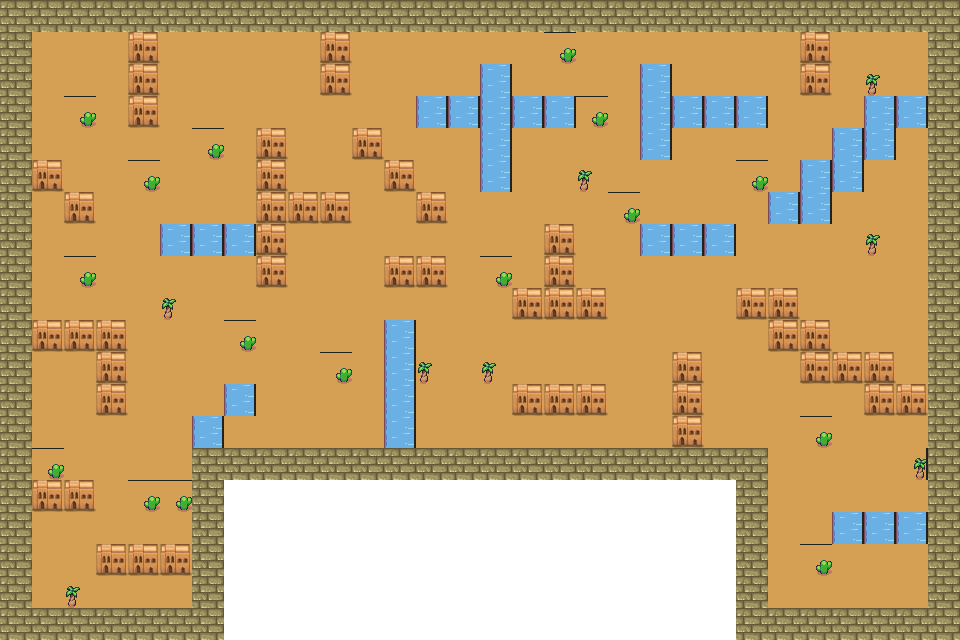
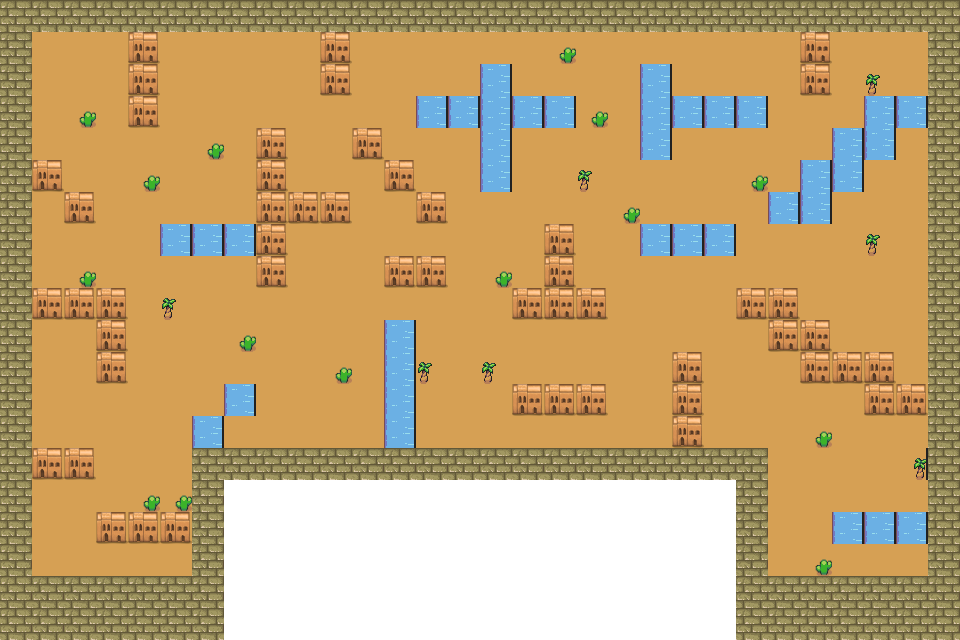
地图修改

diff --git a/src/main/java/com/example/biubiu/sprite/Enemy.java b/src/main/java/com/example/biubiu/sprite/Enemy.java
@@ -41,40 +41,27 @@ public class Enemy extends Role{
 
     private int [][][]block={
             {},
-            //0号地图
             {
-                    {10, 10, 10, 10, 10, 10, 10, 10, 10, 10, 10, 10, 10, 10, 10, 10, 10, 10, 10, 10, 10, 10, 10, 10, 10, 10, 10, 10, 10, 10, 10, 10},
-                    {10, 0, 0, 0, 0, 0, 0, 0, 10, 0, 0, 0, 10, 0, 0, 0, 10, 0, 0, 0, 0, 10, 0, 0, 0, 0, 0, 0, 0, 0, 0, 10},
-                    {10, 0, 0, 0, 0, 0, 0, 0, 10, 0, 0, 0, 10, 0, 0, 0, 10, 0, 0, 0, 0, 10, 0, 0, 10, 10, 10, 10, 0, 0, 0, 10},
-                    {10, 0, 0, 0, 0, 0, 0, 0, 10, 0, 0, 0, 10, 0, 0, 0, 10, 0, 0, 0, 0, 10, 0, 0, 0, 0, 0, 0, 0, 0, 0, 10},
-                    {10, 10, 10, 10, 10, 0, 0, 10, 10, 0, 0, 0, 10, 0, 0, 0, 10, 0, 0, 0, 0, 10, 0, 0, 10, 0, 0, 0, 0, 0, 0, 10},
-                    {10, 0, 0, 0, 0, 0, 0, 0, 0, 0, 0, 0, 0, 0, 0, 0, 0, 0, 0, 0, 0, 10, 0, 0, 10, 0, 0, 0, 0, 10, 0, 10},
-                    {10, 0, 0, 0, 0, 0, 0, 0, 0, 0, 0, 0, 0, 0, 0, 0, 0, 0, 0, 0, 0, 10, 0, 0, 10, 0, 0, 0, 0, 10, 0, 10},
-                    {10, 0, 0, 0, 0, 0, 0, 0, 0, 0, 0, 0, 0, 0, 10, 10, 10, 10, 10, 0, 0, 0, 0, 0, 0, 0, 0, 0, 0, 10, 0, 10},
-                    {10, 0, 0, 0, 0, 0, 10, 10, 10, 10, 10, 0, 0, 0, 0, 0, 0, 0, 0, 0, 0, 0, 0, 0, 0, 10, 0, 0, 0, 10, 10, 10},
-                    {10, 0, 0, 0, 0, 0, 10, 0, 0, 0, 0, 0, 0, 0, 0, 0, 0, 0, 0, 0, 0, 0, 0, 0, 0, 10, 0, 0, 0, 0, 0, 10},
-                    {10, 0, 0, 0, 0, 0, 10, 0, 0, 0, 0, 0, 10, 0, 0, 0, 0, 0, 0, 0, 0, 0, 0, 10, 10, 10, 10, 10, 0, 0, 0, 10},
-                    {10, 10, 10, 10, 10, 10, 10, 0, 0, 0, 0, 0, 10, 0, 0, 10, 10, 10, 0, 0, 0, 0, 0, 0, 0, 10, 0, 0, 0, 0, 0, 10},
-                    {10, 0, 0, 0, 0, 0, 0, 0, 0, 0, 0, 0, 10, 0, 0, 0, 0, 10, 10, 10, 0, 0, 0, 0, 0, 10, 0, 0, 0, 0, 0, 10},
-                    {10, 0, 0, 10, 0, 0, 0, 0, 0, 0, 0, 10, 10, 0, 0, 0, 0, 0, 0, 10, 10, 10, 0, 0, 0, 0, 0, 0, 0, 0, 0, 10},
-                    {10, 0, 0, 10, 0, 0, 0, 0, 0, 0, 0, 10, 0, 0, 0, 0, 0, 0, 0, 0, 0, 10, 10, 0, 0, 0, 0, 0, 0, 0, 0, 10},
-                    {10, 0, 0, 10, 0, 0, 0, 0, 0, 0, 0, 10, 0, 0, 0, 0, 0, 0, 0, 0, 0, 0, 10, 10, 10, 0, 0, 0, 0, 0, 0, 10},
-                    {10, 0, 0, 10, 10, 10, 10, 10, 0, 0, 0, 10, 0, 0, 0, 0, 0, 0, 10, 0, 0, 0, 0, 0, 10, 10, 10, 0, 0, 0, 0, 10},
-                    {10, 0, 0, 0, 0, 0, 0, 10, 0, 0, 0, 0, 0, 0, 0, 0, 0, 0, 10, 0, 0, 0, 0, 0, 0, 0, 10, 10, 10, 0, 0, 10},
-                    {10, 0, 0, 0, 0, 0, 0, 0, 0, 0, 0, 10, 10, 10, 10, 10, 0, 0, 10, 0, 0, 0, 0, 0, 0, 0, 0, 0, 0, 0, 0, 10},
-                    {10, 0, 0, 0, 0, 0, 0, 0, 0, 0, 0, 10, 0, 0, 0, 0, 0, 0, 10, 0, 0, 0, 0, 0, 0, 0, 0, 0, 0, 0, 0, 10},
-                    {10, 0, 0, 10, 0, 0, 0, 10, 0, 0, 0, 10, 0, 0, 0, 0, 0, 0, 10, 0, 0, 0, 0, 0, 0, 0, 0, 0, 0, 0, 0, 10},
-                    {10, 0, 0, 10, 0, 0, 0, 10, 10, 10, 10, 10, 0, 0, 10, 0, 0, 0, 10, 10, 10, 10, 10, 10, 10, 10, 10, 10, 10, 10, 0, 10},
-                    {10, 0, 0, 10, 0, 0, 0, 0, 0, 0, 0, 0, 0, 0, 10, 0, 0, 0, 0, 0, 0, 0, 0, 0, 0, 0, 0, 0, 0, 0, 0, 10},
-                    {10, 0, 0, 10, 0, 0, 0, 0, 0, 0, 0, 0, 10, 10, 10, 10, 10, 0, 0, 0, 0, 0, 0, 0, 0, 0, 0, 0, 0, 0, 0, 10},
-                    {10, 0, 0, 10, 0, 0, 0, 0, 0, 0, 0, 0, 0, 0, 10, 0, 0, 0, 0, 0, 10, 0, 0, 0, 0, 0, 0, 0, 0, 0, 0, 10},
-                    {10, 0, 0, 0, 0, 0, 0, 10, 0, 0, 0, 0, 0, 0, 0, 0, 0, 0, 0, 0, 10, 0, 0, 0, 10, 10, 10, 10, 10, 10, 0, 10},
-                    {10, 0, 0, 0, 0, 0, 0, 10, 0, 0, 0, 10, 10, 10, 10, 10, 10, 0, 0, 0, 10, 0, 0, 0, 10, 0, 0, 0, 0, 0, 0, 10},
-                    {10, 0, 0, 10, 0, 0, 0, 10, 0, 0, 0, 0, 0, 0, 0, 10, 10, 10, 0, 0, 0, 0, 0, 0, 10, 0, 0, 0, 0, 0, 0, 10},
-                    {10, 0, 0, 10, 0, 0, 10, 10, 10, 0, 0, 0, 0, 0, 0, 0, 0, 10, 10, 10, 0, 0, 0, 0, 10, 0, 0, 0, 0, 0, 0, 10},
-                    {10, 0, 0, 10, 0, 0, 0, 0, 0, 0, 0, 0, 0, 0, 0, 0, 0, 0, 0, 10, 10, 10, 0, 0, 0, 0, 0, 0, 0, 0, 0, 10},
-                    {10, 0, 0, 0, 0, 0, 0, 0, 0, 0, 0, 0, 0, 0, 0, 0, 0, 0, 0, 0, 0, 10, 0, 0, 0, 0, 0, 0, 0, 0, 0, 10},
-                    {10, 10, 10, 10, 10, 10, 10, 10, 10, 10, 10, 10, 10, 10, 10, 10, 10, 10, 10, 10, 10, 10, 10, 10, 10, 10, 10, 10, 10, 10, 10, 10}
+                    {  10,  10,  10,  10,  10,  10,  10,  10,  10,  10,  10,  10,  10,  10,  10,  10,  10,  10,  10,  10,  10,  10,  10,  10,  10,  10,  10,  10,  10,  10},
+                    {  10,   0,   0,   0,  10,   0,   0,   0,   0,   0,  10,   0,   0,   0,   0,   0,   0,   0,   0,   0,   0,   0,   0,   0,   0,  10,   0,   0,   0,  10},
+                    {  10,   0,   0,   0,  10,   0,   0,   0,   0,   0,  10,   0,   0,   0,   0,   5,   0,   0,   0,   0,   5,   0,   0,   0,   0,  10,   0,   0,   0,  10},
+                    {  10,   0,   0,   0,  10,   0,   0,   0,   0,   0,   0,   0,   0,   5,   5,   5,   5,   5,   0,   0,   5,   5,   5,   5,   0,   0,   0,   5,   5,  10},
+                    {  10,   0,   0,   0,   0,   0,   0,   0,  10,   0,   0,  10,   0,   0,   0,   5,   0,   0,   0,   0,   5,   0,   0,   0,   0,   0,   5,   5,   0,  10},
+                    {  10,  10,   0,   0,   0,   0,   0,   0,  10,   0,   0,   0,  10,   0,   0,   5,   0,   0,   0,   0,   0,   0,   0,   0,   0,   5,   5,   0,   0,  10},
+                    {  10,   0,  10,   0,   0,   0,   0,   0,  10,  10,  10,   0,   0,  10,   0,   0,   0,   0,   0,   0,   0,   0,   0,   0,   5,   5,   0,   0,   0,  10},
+                    {  10,   0,   0,   0,   0,   5,   5,   5,  10,   0,   0,   0,   0,   0,   0,   0,   0,  10,   0,   0,   5,   5,   5,   0,   0,   0,   0,   0,   0,  10},
+                    {  10,   0,   0,   0,   0,   0,   0,   0,  10,   0,   0,   0,  10,  10,   0,   0,   0,  10,   0,   0,   0,   0,   0,   0,   0,   0,   0,   0,   0,  10},
+                    {  10,  10,  10,  10,   0,   0,   0,   0,   0,   0,   0,   0,   0,   0,   0,   0,  10,  10,  10,   0,   0,   0,   0,  10,  10,   0,   0,   0,   0,  10},
+                    {  10,   0,   0,  10,   0,   0,   0,   0,   0,   0,   0,   0,   5,   0,   0,   0,   0,   0,   0,   0,   0,   0,   0,   0,  10,  10,   0,   0,   0,  10},
+                    {  10,   0,   0,  10,   0,   0,   0,   0,   0,   0,   0,   0,   5,   0,   0,   0,   0,   0,   0,   0,   0,  10,   0,   0,   0,  10,  10,  10,   0,  10},
+                    {  10,   0,   0,   0,   0,   0,   0,   5,   0,   0,   0,   0,   5,   0,   0,   0,  10,  10,  10,   0,   0,  10,   0,   0,   0,   0,   0,  10,  10,  10},
+                    {  10,   0,   0,   0,   0,   0,   5,   0,   0,   0,   0,   0,   5,   0,   0,   0,   0,   0,   0,   0,   0,  10,   0,   0,   0,   0,   0,   0,   0,  10},
+                    {  10,  10,  10,   0,   0,   0,  10,  10,  10,  10,  10,  10,  10,  10,  10,  10,  10,  10,  10,  10,  10,  10,  10,  10,   0,   0,   0,   0,   0,  10},
+                    {  10,   0,   0,   0,   0,   0,  10,   0,   0,   0,   0,   0,   0,   0,   0,   0,   0,   0,   0,   0,   0,   0,   0,  10,   0,   0,   0,   0,   0,  10},
+                    {  10,   0,   0,  10,  10,  10,  10,   0,   0,   0,   0,   0,   0,   0,   0,   0,   0,   0,   0,   0,   0,   0,   0,  10,   0,   0,   5,   5,   5,  10},
+                    {  10,   0,   0,   0,   0,   0,  10,   0,   0,   0,   0,   0,   0,   0,   0,   0,   0,   0,   0,   0,   0,   0,   0,  10,   0,   0,   0,   0,   0,  10},
+                    {  10,  10,  10,  10,  10,  10,  10,   0,   0,   0,   0,   0,   0,   0,   0,   0,   0,   0,   0,   0,   0,   0,   0,  10,  10,  10,  10,  10,  10,  10},
+                    {  10,  10,  10,  10,  10,  10,  10,   0,   0,   0,   0,   0,   0,   0,   0,   0,   0,   0,   0,   0,   0,   0,   0,  10,  10,  10,  10,  10,  10,  10}
             }
     };
 

diff --git a/src/main/java/com/example/biubiu/sprite/EnemyBullet.java b/src/main/java/com/example/biubiu/sprite/EnemyBullet.java
@@ -20,38 +20,26 @@ public class EnemyBullet extends Role{
     private int [][][]block={
             {},
             {
-                    {10, 10, 10, 10, 10, 10, 10, 10, 10, 10, 10, 10, 10, 10, 10, 10, 10, 10, 10, 10, 10, 10, 10, 10, 10, 10, 10, 10, 10, 10, 10, 10},
-                    {10, 0, 0, 0, 0, 0, 0, 0, 10, 0, 0, 0, 10, 0, 0, 0, 10, 0, 0, 0, 0, 10, 0, 0, 0, 0, 0, 0, 0, 0, 0, 10},
-                    {10, 0, 0, 0, 0, 0, 0, 0, 10, 0, 0, 0, 10, 0, 0, 0, 10, 0, 0, 0, 0, 10, 0, 0, 10, 10, 10, 10, 0, 0, 0, 10},
-                    {10, 0, 0, 0, 0, 0, 0, 0, 10, 0, 0, 0, 10, 0, 0, 0, 10, 0, 0, 0, 0, 10, 0, 0, 0, 0, 0, 0, 0, 0, 0, 10},
-                    {10, 10, 10, 10, 10, 0, 0, 10, 10, 0, 0, 0, 10, 0, 0, 0, 10, 0, 0, 0, 0, 10, 0, 0, 10, 0, 0, 0, 0, 0, 0, 10},
-                    {10, 0, 0, 0, 0, 0, 0, 0, 0, 0, 0, 0, 0, 0, 0, 0, 0, 0, 0, 0, 0, 10, 0, 0, 10, 0, 0, 0, 0, 10, 0, 10},
-                    {10, 0, 0, 0, 0, 0, 0, 0, 0, 0, 0, 0, 0, 0, 0, 0, 0, 0, 0, 0, 0, 10, 0, 0, 10, 0, 0, 0, 0, 10, 0, 10},
-                    {10, 0, 0, 0, 0, 0, 0, 0, 0, 0, 0, 0, 0, 0, 10, 10, 10, 10, 10, 0, 0, 0, 0, 0, 0, 0, 0, 0, 0, 10, 0, 10},
-                    {10, 0, 0, 0, 0, 0, 10, 10, 10, 10, 10, 0, 0, 0, 0, 0, 0, 0, 0, 0, 0, 0, 0, 0, 0, 10, 0, 0, 0, 10, 10, 10},
-                    {10, 0, 0, 0, 0, 0, 10, 0, 0, 0, 0, 0, 0, 0, 0, 0, 0, 0, 0, 0, 0, 0, 0, 0, 0, 10, 0, 0, 0, 0, 0, 10},
-                    {10, 0, 0, 0, 0, 0, 10, 0, 0, 0, 0, 0, 10, 0, 0, 0, 0, 0, 0, 0, 0, 0, 0, 10, 10, 10, 10, 10, 0, 0, 0, 10},
-                    {10, 10, 10, 10, 10, 10, 10, 0, 0, 0, 0, 0, 10, 0, 0, 10, 10, 10, 0, 0, 0, 0, 0, 0, 0, 10, 0, 0, 0, 0, 0, 10},
-                    {10, 0, 0, 0, 0, 0, 0, 0, 0, 0, 0, 0, 10, 0, 0, 0, 0, 10, 10, 10, 0, 0, 0, 0, 0, 10, 0, 0, 0, 0, 0, 10},
-                    {10, 0, 0, 10, 0, 0, 0, 0, 0, 0, 0, 10, 10, 0, 0, 0, 0, 0, 0, 10, 10, 10, 0, 0, 0, 0, 0, 0, 0, 0, 0, 10},
-                    {10, 0, 0, 10, 0, 0, 0, 0, 0, 0, 0, 10, 0, 0, 0, 0, 0, 0, 0, 0, 0, 10, 10, 0, 0, 0, 0, 0, 0, 0, 0, 10},
-                    {10, 0, 0, 10, 0, 0, 0, 0, 0, 0, 0, 10, 0, 0, 0, 0, 0, 0, 0, 0, 0, 0, 10, 10, 10, 0, 0, 0, 0, 0, 0, 10},
-                    {10, 0, 0, 10, 10, 10, 10, 10, 0, 0, 0, 10, 0, 0, 0, 0, 0, 0, 10, 0, 0, 0, 0, 0, 10, 10, 10, 0, 0, 0, 0, 10},
-                    {10, 0, 0, 0, 0, 0, 0, 10, 0, 0, 0, 0, 0, 0, 0, 0, 0, 0, 10, 0, 0, 0, 0, 0, 0, 0, 10, 10, 10, 0, 0, 10},
-                    {10, 0, 0, 0, 0, 0, 0, 0, 0, 0, 0, 10, 10, 10, 10, 10, 0, 0, 10, 0, 0, 0, 0, 0, 0, 0, 0, 0, 0, 0, 0, 10},
-                    {10, 0, 0, 0, 0, 0, 0, 0, 0, 0, 0, 10, 0, 0, 0, 0, 0, 0, 10, 0, 0, 0, 0, 0, 0, 0, 0, 0, 0, 0, 0, 10},
-                    {10, 0, 0, 10, 0, 0, 0, 10, 0, 0, 0, 10, 0, 0, 0, 0, 0, 0, 10, 0, 0, 0, 0, 0, 0, 0, 0, 0, 0, 0, 0, 10},
-                    {10, 0, 0, 10, 0, 0, 0, 10, 10, 10, 10, 10, 0, 0, 10, 0, 0, 0, 10, 10, 10, 10, 10, 10, 10, 10, 10, 10, 10, 10, 0, 10},
-                    {10, 0, 0, 10, 0, 0, 0, 0, 0, 0, 0, 0, 0, 0, 10, 0, 0, 0, 0, 0, 0, 0, 0, 0, 0, 0, 0, 0, 0, 0, 0, 10},
-                    {10, 0, 0, 10, 0, 0, 0, 0, 0, 0, 0, 0, 10, 10, 10, 10, 10, 0, 0, 0, 0, 0, 0, 0, 0, 0, 0, 0, 0, 0, 0, 10},
-                    {10, 0, 0, 10, 0, 0, 0, 0, 0, 0, 0, 0, 0, 0, 10, 0, 0, 0, 0, 0, 10, 0, 0, 0, 0, 0, 0, 0, 0, 0, 0, 10},
-                    {10, 0, 0, 0, 0, 0, 0, 10, 0, 0, 0, 0, 0, 0, 0, 0, 0, 0, 0, 0, 10, 0, 0, 0, 10, 10, 10, 10, 10, 10, 0, 10},
-                    {10, 0, 0, 0, 0, 0, 0, 10, 0, 0, 0, 10, 10, 10, 10, 10, 10, 0, 0, 0, 10, 0, 0, 0, 10, 0, 0, 0, 0, 0, 0, 10},
-                    {10, 0, 0, 10, 0, 0, 0, 10, 0, 0, 0, 0, 0, 0, 0, 10, 10, 10, 0, 0, 0, 0, 0, 0, 10, 0, 0, 0, 0, 0, 0, 10},
-                    {10, 0, 0, 10, 0, 0, 10, 10, 10, 0, 0, 0, 0, 0, 0, 0, 0, 10, 10, 10, 0, 0, 0, 0, 10, 0, 0, 0, 0, 0, 0, 10},
-                    {10, 0, 0, 10, 0, 0, 0, 0, 0, 0, 0, 0, 0, 0, 0, 0, 0, 0, 0, 10, 10, 10, 0, 0, 0, 0, 0, 0, 0, 0, 0, 10},
-                    {10, 0, 0, 0, 0, 0, 0, 0, 0, 0, 0, 0, 0, 0, 0, 0, 0, 0, 0, 0, 0, 10, 0, 0, 0, 0, 0, 0, 0, 0, 0, 10},
-                    {10, 10, 10, 10, 10, 10, 10, 10, 10, 10, 10, 10, 10, 10, 10, 10, 10, 10, 10, 10, 10, 10, 10, 10, 10, 10, 10, 10, 10, 10, 10, 10}
+                {  10,  10,  10,  10,  10,  10,  10,  10,  10,  10,  10,  10,  10,  10,  10,  10,  10,  10,  10,  10,  10,  10,  10,  10,  10,  10,  10,  10,  10,  10},
+                {  10,   0,   0,   0,  10,   0,   0,   0,   0,   0,  10,   0,   0,   0,   0,   0,   0,   0,   0,   0,   0,   0,   0,   0,   0,  10,   0,   0,   0,  10},
+                {  10,   0,   0,   0,  10,   0,   0,   0,   0,   0,  10,   0,   0,   0,   0,   5,   0,   0,   0,   0,   5,   0,   0,   0,   0,  10,   0,   0,   0,  10},
+                {  10,   0,   0,   0,  10,   0,   0,   0,   0,   0,   0,   0,   0,   5,   5,   5,   5,   5,   0,   0,   5,   5,   5,   5,   0,   0,   0,   5,   5,  10},
+                {  10,   0,   0,   0,   0,   0,   0,   0,  10,   0,   0,  10,   0,   0,   0,   5,   0,   0,   0,   0,   5,   0,   0,   0,   0,   0,   5,   5,   0,  10},
+                {  10,  10,   0,   0,   0,   0,   0,   0,  10,   0,   0,   0,  10,   0,   0,   5,   0,   0,   0,   0,   0,   0,   0,   0,   0,   5,   5,   0,   0,  10},
+                {  10,   0,  10,   0,   0,   0,   0,   0,  10,  10,  10,   0,   0,  10,   0,   0,   0,   0,   0,   0,   0,   0,   0,   0,   5,   5,   0,   0,   0,  10},
+                {  10,   0,   0,   0,   0,   5,   5,   5,  10,   0,   0,   0,   0,   0,   0,   0,   0,  10,   0,   0,   5,   5,   5,   0,   0,   0,   0,   0,   0,  10},
+                {  10,   0,   0,   0,   0,   0,   0,   0,  10,   0,   0,   0,  10,  10,   0,   0,   0,  10,   0,   0,   0,   0,   0,   0,   0,   0,   0,   0,   0,  10},
+                {  10,  10,  10,  10,   0,   0,   0,   0,   0,   0,   0,   0,   0,   0,   0,   0,  10,  10,  10,   0,   0,   0,   0,  10,  10,   0,   0,   0,   0,  10},
+                {  10,   0,   0,  10,   0,   0,   0,   0,   0,   0,   0,   0,   5,   0,   0,   0,   0,   0,   0,   0,   0,   0,   0,   0,  10,  10,   0,   0,   0,  10},
+                {  10,   0,   0,  10,   0,   0,   0,   0,   0,   0,   0,   0,   5,   0,   0,   0,   0,   0,   0,   0,   0,  10,   0,   0,   0,  10,  10,  10,   0,  10},
+                {  10,   0,   0,   0,   0,   0,   0,   5,   0,   0,   0,   0,   5,   0,   0,   0,  10,  10,  10,   0,   0,  10,   0,   0,   0,   0,   0,  10,  10,  10},
+                {  10,   0,   0,   0,   0,   0,   5,   0,   0,   0,   0,   0,   5,   0,   0,   0,   0,   0,   0,   0,   0,  10,   0,   0,   0,   0,   0,   0,   0,  10},
+                {  10,  10,  10,   0,   0,   0,  10,  10,  10,  10,  10,  10,  10,  10,  10,  10,  10,  10,  10,  10,  10,  10,  10,  10,   0,   0,   0,   0,   0,  10},
+                {  10,   0,   0,   0,   0,   0,  10,   0,   0,   0,   0,   0,   0,   0,   0,   0,   0,   0,   0,   0,   0,   0,   0,  10,   0,   0,   0,   0,   0,  10},
+                {  10,   0,   0,  10,  10,  10,  10,   0,   0,   0,   0,   0,   0,   0,   0,   0,   0,   0,   0,   0,   0,   0,   0,  10,   0,   0,   5,   5,   5,  10},
+                {  10,   0,   0,   0,   0,   0,  10,   0,   0,   0,   0,   0,   0,   0,   0,   0,   0,   0,   0,   0,   0,   0,   0,  10,   0,   0,   0,   0,   0,  10},
+                {  10,  10,  10,  10,  10,  10,  10,   0,   0,   0,   0,   0,   0,   0,   0,   0,   0,   0,   0,   0,   0,   0,   0,  10,  10,  10,  10,  10,  10,  10},
+                {  10,  10,  10,  10,  10,  10,  10,   0,   0,   0,   0,   0,   0,   0,   0,   0,   0,   0,   0,   0,   0,   0,   0,  10,  10,  10,  10,  10,  10,  10}
             }
     };
 

diff --git a/src/main/java/com/example/biubiu/sprite/Bullet.java b/src/main/java/com/example/biubiu/sprite/Bullet.java
@@ -27,41 +27,29 @@ public class Bullet extends Role{
         image = new Image(Bullet.class.getResource("/com/example/biubiu/image/missile.png").toExternalForm());
     }
 
-    private   int [][][]block={
+    private int [][][]block={
             {},
             {
-            {10, 10, 10, 10, 10, 10, 10, 10, 10, 10, 10, 10, 10, 10, 10, 10, 10, 10, 10, 10, 10, 10, 10, 10, 10, 10, 10, 10, 10, 10, 10, 10},
-            {10, 0, 0, 0, 0, 0, 0, 0, 10, 0, 0, 0, 10, 0, 0, 0, 10, 0, 0, 0, 0, 10, 0, 0, 0, 0, 0, 0, 0, 0, 0, 10},
-            {10, 0, 0, 0, 0, 0, 0, 0, 10, 0, 0, 0, 10, 0, 0, 0, 10, 0, 0, 0, 0, 10, 0, 0, 10, 10, 10, 10, 0, 0, 0, 10},
-            {10, 0, 0, 0, 0, 0, 0, 0, 10, 0, 0, 0, 10, 0, 0, 0, 10, 0, 0, 0, 0, 10, 0, 0, 0, 0, 0, 0, 0, 0, 0, 10},
-            {10, 10, 10, 10, 10, 0, 0, 10, 10, 0, 0, 0, 10, 0, 0, 0, 10, 0, 0, 0, 0, 10, 0, 0, 10, 0, 0, 0, 0, 0, 0, 10},
-            {10, 0, 0, 0, 0, 0, 0, 0, 0, 0, 0, 0, 0, 0, 0, 0, 0, 0, 0, 0, 0, 10, 0, 0, 10, 0, 0, 0, 0, 10, 0, 10},
-            {10, 0, 0, 0, 0, 0, 0, 0, 0, 0, 0, 0, 0, 0, 0, 0, 0, 0, 0, 0, 0, 10, 0, 0, 10, 0, 0, 0, 0, 10, 0, 10},
-            {10, 0, 0, 0, 0, 0, 0, 0, 0, 0, 0, 0, 0, 0, 10, 10, 10, 10, 10, 0, 0, 0, 0, 0, 0, 0, 0, 0, 0, 10, 0, 10},
-            {10, 0, 0, 0, 0, 0, 10, 10, 10, 10, 10, 0, 0, 0, 0, 0, 0, 0, 0, 0, 0, 0, 0, 0, 0, 10, 0, 0, 0, 10, 10, 10},
-            {10, 0, 0, 0, 0, 0, 10, 0, 0, 0, 0, 0, 0, 0, 0, 0, 0, 0, 0, 0, 0, 0, 0, 0, 0, 10, 0, 0, 0, 0, 0, 10},
-            {10, 0, 0, 0, 0, 0, 10, 0, 0, 0, 0, 0, 10, 0, 0, 0, 0, 0, 0, 0, 0, 0, 0, 10, 10, 10, 10, 10, 0, 0, 0, 10},
-            {10, 10, 10, 10, 10, 10, 10, 0, 0, 0, 0, 0, 10, 0, 0, 10, 10, 10, 0, 0, 0, 0, 0, 0, 0, 10, 0, 0, 0, 0, 0, 10},
-            {10, 0, 0, 0, 0, 0, 0, 0, 0, 0, 0, 0, 10, 0, 0, 0, 0, 10, 10, 10, 0, 0, 0, 0, 0, 10, 0, 0, 0, 0, 0, 10},
-            {10, 0, 0, 10, 0, 0, 0, 0, 0, 0, 0, 10, 10, 0, 0, 0, 0, 0, 0, 10, 10, 10, 0, 0, 0, 0, 0, 0, 0, 0, 0, 10},
-            {10, 0, 0, 10, 0, 0, 0, 0, 0, 0, 0, 10, 0, 0, 0, 0, 0, 0, 0, 0, 0, 10, 10, 0, 0, 0, 0, 0, 0, 0, 0, 10},
-            {10, 0, 0, 10, 0, 0, 0, 0, 0, 0, 0, 10, 0, 0, 0, 0, 0, 0, 0, 0, 0, 0, 10, 10, 10, 0, 0, 0, 0, 0, 0, 10},
-            {10, 0, 0, 10, 10, 10, 10, 10, 0, 0, 0, 10, 0, 0, 0, 0, 0, 0, 10, 0, 0, 0, 0, 0, 10, 10, 10, 0, 0, 0, 0, 10},
-            {10, 0, 0, 0, 0, 0, 0, 10, 0, 0, 0, 0, 0, 0, 0, 0, 0, 0, 10, 0, 0, 0, 0, 0, 0, 0, 10, 10, 10, 0, 0, 10},
-            {10, 0, 0, 0, 0, 0, 0, 0, 0, 0, 0, 10, 10, 10, 10, 10, 0, 0, 10, 0, 0, 0, 0, 0, 0, 0, 0, 0, 0, 0, 0, 10},
-            {10, 0, 0, 0, 0, 0, 0, 0, 0, 0, 0, 10, 0, 0, 0, 0, 0, 0, 10, 0, 0, 0, 0, 0, 0, 0, 0, 0, 0, 0, 0, 10},
-            {10, 0, 0, 10, 0, 0, 0, 10, 0, 0, 0, 10, 0, 0, 0, 0, 0, 0, 10, 0, 0, 0, 0, 0, 0, 0, 0, 0, 0, 0, 0, 10},
-            {10, 0, 0, 10, 0, 0, 0, 10, 10, 10, 10, 10, 0, 0, 10, 0, 0, 0, 10, 10, 10, 10, 10, 10, 10, 10, 10, 10, 10, 10, 0, 10},
-            {10, 0, 0, 10, 0, 0, 0, 0, 0, 0, 0, 0, 0, 0, 10, 0, 0, 0, 0, 0, 0, 0, 0, 0, 0, 0, 0, 0, 0, 0, 0, 10},
-            {10, 0, 0, 10, 0, 0, 0, 0, 0, 0, 0, 0, 10, 10, 10, 10, 10, 0, 0, 0, 0, 0, 0, 0, 0, 0, 0, 0, 0, 0, 0, 10},
-            {10, 0, 0, 10, 0, 0, 0, 0, 0, 0, 0, 0, 0, 0, 10, 0, 0, 0, 0, 0, 10, 0, 0, 0, 0, 0, 0, 0, 0, 0, 0, 10},
-            {10, 0, 0, 0, 0, 0, 0, 10, 0, 0, 0, 0, 0, 0, 0, 0, 0, 0, 0, 0, 10, 0, 0, 0, 10, 10, 10, 10, 10, 10, 0, 10},
-            {10, 0, 0, 0, 0, 0, 0, 10, 0, 0, 0, 10, 10, 10, 10, 10, 10, 0, 0, 0, 10, 0, 0, 0, 10, 0, 0, 0, 0, 0, 0, 10},
-            {10, 0, 0, 10, 0, 0, 0, 10, 0, 0, 0, 0, 0, 0, 0, 10, 10, 10, 0, 0, 0, 0, 0, 0, 10, 0, 0, 0, 0, 0, 0, 10},
-            {10, 0, 0, 10, 0, 0, 10, 10, 10, 0, 0, 0, 0, 0, 0, 0, 0, 10, 10, 10, 0, 0, 0, 0, 10, 0, 0, 0, 0, 0, 0, 10},
-            {10, 0, 0, 10, 0, 0, 0, 0, 0, 0, 0, 0, 0, 0, 0, 0, 0, 0, 0, 10, 10, 10, 0, 0, 0, 0, 0, 0, 0, 0, 0, 10},
-            {10, 0, 0, 0, 0, 0, 0, 0, 0, 0, 0, 0, 0, 0, 0, 0, 0, 0, 0, 0, 0, 10, 0, 0, 0, 0, 0, 0, 0, 0, 0, 10},
-            {10, 10, 10, 10, 10, 10, 10, 10, 10, 10, 10, 10, 10, 10, 10, 10, 10, 10, 10, 10, 10, 10, 10, 10, 10, 10, 10, 10, 10, 10, 10, 10}
+                    {  10,  10,  10,  10,  10,  10,  10,  10,  10,  10,  10,  10,  10,  10,  10,  10,  10,  10,  10,  10,  10,  10,  10,  10,  10,  10,  10,  10,  10,  10},
+                    {  10,   0,   0,   0,  10,   0,   0,   0,   0,   0,  10,   0,   0,   0,   0,   0,   0,   0,   0,   0,   0,   0,   0,   0,   0,  10,   0,   0,   0,  10},
+                    {  10,   0,   0,   0,  10,   0,   0,   0,   0,   0,  10,   0,   0,   0,   0,   5,   0,   0,   0,   0,   5,   0,   0,   0,   0,  10,   0,   0,   0,  10},
+                    {  10,   0,   0,   0,  10,   0,   0,   0,   0,   0,   0,   0,   0,   5,   5,   5,   5,   5,   0,   0,   5,   5,   5,   5,   0,   0,   0,   5,   5,  10},
+                    {  10,   0,   0,   0,   0,   0,   0,   0,  10,   0,   0,  10,   0,   0,   0,   5,   0,   0,   0,   0,   5,   0,   0,   0,   0,   0,   5,   5,   0,  10},
+                    {  10,  10,   0,   0,   0,   0,   0,   0,  10,   0,   0,   0,  10,   0,   0,   5,   0,   0,   0,   0,   0,   0,   0,   0,   0,   5,   5,   0,   0,  10},
+                    {  10,   0,  10,   0,   0,   0,   0,   0,  10,  10,  10,   0,   0,  10,   0,   0,   0,   0,   0,   0,   0,   0,   0,   0,   5,   5,   0,   0,   0,  10},
+                    {  10,   0,   0,   0,   0,   5,   5,   5,  10,   0,   0,   0,   0,   0,   0,   0,   0,  10,   0,   0,   5,   5,   5,   0,   0,   0,   0,   0,   0,  10},
+                    {  10,   0,   0,   0,   0,   0,   0,   0,  10,   0,   0,   0,  10,  10,   0,   0,   0,  10,   0,   0,   0,   0,   0,   0,   0,   0,   0,   0,   0,  10},
+                    {  10,  10,  10,  10,   0,   0,   0,   0,   0,   0,   0,   0,   0,   0,   0,   0,  10,  10,  10,   0,   0,   0,   0,  10,  10,   0,   0,   0,   0,  10},
+                    {  10,   0,   0,  10,   0,   0,   0,   0,   0,   0,   0,   0,   5,   0,   0,   0,   0,   0,   0,   0,   0,   0,   0,   0,  10,  10,   0,   0,   0,  10},
+                    {  10,   0,   0,  10,   0,   0,   0,   0,   0,   0,   0,   0,   5,   0,   0,   0,   0,   0,   0,   0,   0,  10,   0,   0,   0,  10,  10,  10,   0,  10},
+                    {  10,   0,   0,   0,   0,   0,   0,   5,   0,   0,   0,   0,   5,   0,   0,   0,  10,  10,  10,   0,   0,  10,   0,   0,   0,   0,   0,  10,  10,  10},
+                    {  10,   0,   0,   0,   0,   0,   5,   0,   0,   0,   0,   0,   5,   0,   0,   0,   0,   0,   0,   0,   0,  10,   0,   0,   0,   0,   0,   0,   0,  10},
+                    {  10,  10,  10,   0,   0,   0,  10,  10,  10,  10,  10,  10,  10,  10,  10,  10,  10,  10,  10,  10,  10,  10,  10,  10,   0,   0,   0,   0,   0,  10},
+                    {  10,   0,   0,   0,   0,   0,  10,   0,   0,   0,   0,   0,   0,   0,   0,   0,   0,   0,   0,   0,   0,   0,   0,  10,   0,   0,   0,   0,   0,  10},
+                    {  10,   0,   0,  10,  10,  10,  10,   0,   0,   0,   0,   0,   0,   0,   0,   0,   0,   0,   0,   0,   0,   0,   0,  10,   0,   0,   5,   5,   5,  10},
+                    {  10,   0,   0,   0,   0,   0,  10,   0,   0,   0,   0,   0,   0,   0,   0,   0,   0,   0,   0,   0,   0,   0,   0,  10,   0,   0,   0,   0,   0,  10},
+                    {  10,  10,  10,  10,  10,  10,  10,   0,   0,   0,   0,   0,   0,   0,   0,   0,   0,   0,   0,   0,   0,   0,   0,  10,  10,  10,  10,  10,  10,  10},
+                    {  10,  10,  10,  10,  10,  10,  10,   0,   0,   0,   0,   0,   0,   0,   0,   0,   0,   0,   0,   0,   0,   0,   0,  10,  10,  10,  10,  10,  10,  10}
             }
     };
 

diff --git a/src/main/java/com/example/biubiu/sprite/Player.java b/src/main/java/com/example/biubiu/sprite/Player.java
@@ -36,40 +36,27 @@ public class Player extends Role{
     public double hp;
     private int [][][]block={
             {},
-            //0号地图
             {
-            {10, 10, 10, 10, 10, 10, 10, 10, 10, 10, 10, 10, 10, 10, 10, 10, 10, 10, 10, 10, 10, 10, 10, 10, 10, 10, 10, 10, 10, 10, 10, 10},
-            {10, 0, 0, 0, 0, 0, 0, 0, 10, 0, 0, 0, 10, 0, 0, 0, 10, 0, 0, 0, 0, 10, 0, 0, 0, 0, 0, 0, 0, 0, 0, 10},
-            {10, 0, 0, 0, 0, 0, 0, 0, 10, 0, 0, 0, 10, 0, 0, 0, 10, 0, 0, 0, 0, 10, 0, 0, 10, 10, 10, 10, 0, 0, 0, 10},
-            {10, 0, 0, 0, 0, 0, 0, 0, 10, 0, 0, 0, 10, 0, 0, 0, 10, 0, 0, 0, 0, 10, 0, 0, 0, 0, 0, 0, 0, 0, 0, 10},
-            {10, 10, 10, 10, 10, 0, 0, 10, 10, 0, 0, 0, 10, 0, 0, 0, 10, 0, 0, 0, 0, 10, 0, 0, 10, 0, 0, 0, 0, 0, 0, 10},
-            {10, 0, 0, 0, 0, 0, 0, 0, 0, 0, 0, 0, 0, 0, 0, 0, 0, 0, 0, 0, 0, 10, 0, 0, 10, 0, 0, 0, 0, 10, 0, 10},
-            {10, 0, 0, 0, 0, 0, 0, 0, 0, 0, 0, 0, 0, 0, 0, 0, 0, 0, 0, 0, 0, 10, 0, 0, 10, 0, 0, 0, 0, 10, 0, 10},
-            {10, 0, 0, 0, 0, 0, 0, 0, 0, 0, 0, 0, 0, 0, 10, 10, 10, 10, 10, 0, 0, 0, 0, 0, 0, 0, 0, 0, 0, 10, 0, 10},
-            {10, 0, 0, 0, 0, 0, 10, 10, 10, 10, 10, 0, 0, 0, 0, 0, 0, 0, 0, 0, 0, 0, 0, 0, 0, 10, 0, 0, 0, 10, 10, 10},
-            {10, 0, 0, 0, 0, 0, 10, 0, 0, 0, 0, 0, 0, 0, 0, 0, 0, 0, 0, 0, 0, 0, 0, 0, 0, 10, 0, 0, 0, 0, 0, 10},
-            {10, 0, 0, 0, 0, 0, 10, 0, 0, 0, 0, 0, 10, 0, 0, 0, 0, 0, 0, 0, 0, 0, 0, 10, 10, 10, 10, 10, 0, 0, 0, 10},
-            {10, 10, 10, 10, 10, 10, 10, 0, 0, 0, 0, 0, 10, 0, 0, 10, 10, 10, 0, 0, 0, 0, 0, 0, 0, 10, 0, 0, 0, 0, 0, 10},
-            {10, 0, 0, 0, 0, 0, 0, 0, 0, 0, 0, 0, 10, 0, 0, 0, 0, 10, 10, 10, 0, 0, 0, 0, 0, 10, 0, 0, 0, 0, 0, 10},
-            {10, 0, 0, 10, 0, 0, 0, 0, 0, 0, 0, 10, 10, 0, 0, 0, 0, 0, 0, 10, 10, 10, 0, 0, 0, 0, 0, 0, 0, 0, 0, 10},
-            {10, 0, 0, 10, 0, 0, 0, 0, 0, 0, 0, 10, 0, 0, 0, 0, 0, 0, 0, 0, 0, 10, 10, 0, 0, 0, 0, 0, 0, 0, 0, 10},
-            {10, 0, 0, 10, 0, 0, 0, 0, 0, 0, 0, 10, 0, 0, 0, 0, 0, 0, 0, 0, 0, 0, 10, 10, 10, 0, 0, 0, 0, 0, 0, 10},
-            {10, 0, 0, 10, 10, 10, 10, 10, 0, 0, 0, 10, 0, 0, 0, 0, 0, 0, 10, 0, 0, 0, 0, 0, 10, 10, 10, 0, 0, 0, 0, 10},
-            {10, 0, 0, 0, 0, 0, 0, 10, 0, 0, 0, 0, 0, 0, 0, 0, 0, 0, 10, 0, 0, 0, 0, 0, 0, 0, 10, 10, 10, 0, 0, 10},
-            {10, 0, 0, 0, 0, 0, 0, 0, 0, 0, 0, 10, 10, 10, 10, 10, 0, 0, 10, 0, 0, 0, 0, 0, 0, 0, 0, 0, 0, 0, 0, 10},
-            {10, 0, 0, 0, 0, 0, 0, 0, 0, 0, 0, 10, 0, 0, 0, 0, 0, 0, 10, 0, 0, 0, 0, 0, 0, 0, 0, 0, 0, 0, 0, 10},
-            {10, 0, 0, 10, 0, 0, 0, 10, 0, 0, 0, 10, 0, 0, 0, 0, 0, 0, 10, 0, 0, 0, 0, 0, 0, 0, 0, 0, 0, 0, 0, 10},
-            {10, 0, 0, 10, 0, 0, 0, 10, 10, 10, 10, 10, 0, 0, 10, 0, 0, 0, 10, 10, 10, 10, 10, 10, 10, 10, 10, 10, 10, 10, 0, 10},
-            {10, 0, 0, 10, 0, 0, 0, 0, 0, 0, 0, 0, 0, 0, 10, 0, 0, 0, 0, 0, 0, 0, 0, 0, 0, 0, 0, 0, 0, 0, 0, 10},
-            {10, 0, 0, 10, 0, 0, 0, 0, 0, 0, 0, 0, 10, 10, 10, 10, 10, 0, 0, 0, 0, 0, 0, 0, 0, 0, 0, 0, 0, 0, 0, 10},
-            {10, 0, 0, 10, 0, 0, 0, 0, 0, 0, 0, 0, 0, 0, 10, 0, 0, 0, 0, 0, 10, 0, 0, 0, 0, 0, 0, 0, 0, 0, 0, 10},
-            {10, 0, 0, 0, 0, 0, 0, 10, 0, 0, 0, 0, 0, 0, 0, 0, 0, 0, 0, 0, 10, 0, 0, 0, 10, 10, 10, 10, 10, 10, 0, 10},
-            {10, 0, 0, 0, 0, 0, 0, 10, 0, 0, 0, 10, 10, 10, 10, 10, 10, 0, 0, 0, 10, 0, 0, 0, 10, 0, 0, 0, 0, 0, 0, 10},
-            {10, 0, 0, 10, 0, 0, 0, 10, 0, 0, 0, 0, 0, 0, 0, 10, 10, 10, 0, 0, 0, 0, 0, 0, 10, 0, 0, 0, 0, 0, 0, 10},
-            {10, 0, 0, 10, 0, 0, 10, 10, 10, 0, 0, 0, 0, 0, 0, 0, 0, 10, 10, 10, 0, 0, 0, 0, 10, 0, 0, 0, 0, 0, 0, 10},
-            {10, 0, 0, 10, 0, 0, 0, 0, 0, 0, 0, 0, 0, 0, 0, 0, 0, 0, 0, 10, 10, 10, 0, 0, 0, 0, 0, 0, 0, 0, 0, 10},
-            {10, 0, 0, 0, 0, 0, 0, 0, 0, 0, 0, 0, 0, 0, 0, 0, 0, 0, 0, 0, 0, 10, 0, 0, 0, 0, 0, 0, 0, 0, 0, 10},
-            {10, 10, 10, 10, 10, 10, 10, 10, 10, 10, 10, 10, 10, 10, 10, 10, 10, 10, 10, 10, 10, 10, 10, 10, 10, 10, 10, 10, 10, 10, 10, 10}
+                    {  10,  10,  10,  10,  10,  10,  10,  10,  10,  10,  10,  10,  10,  10,  10,  10,  10,  10,  10,  10,  10,  10,  10,  10,  10,  10,  10,  10,  10,  10},
+                    {  10,   0,   0,   0,  10,   0,   0,   0,   0,   0,  10,   0,   0,   0,   0,   0,   0,   0,   0,   0,   0,   0,   0,   0,   0,  10,   0,   0,   0,  10},
+                    {  10,   0,   0,   0,  10,   0,   0,   0,   0,   0,  10,   0,   0,   0,   0,   5,   0,   0,   0,   0,   5,   0,   0,   0,   0,  10,   0,   0,   0,  10},
+                    {  10,   0,   0,   0,  10,   0,   0,   0,   0,   0,   0,   0,   0,   5,   5,   5,   5,   5,   0,   0,   5,   5,   5,   5,   0,   0,   0,   5,   5,  10},
+                    {  10,   0,   0,   0,   0,   0,   0,   0,  10,   0,   0,  10,   0,   0,   0,   5,   0,   0,   0,   0,   5,   0,   0,   0,   0,   0,   5,   5,   0,  10},
+                    {  10,  10,   0,   0,   0,   0,   0,   0,  10,   0,   0,   0,  10,   0,   0,   5,   0,   0,   0,   0,   0,   0,   0,   0,   0,   5,   5,   0,   0,  10},
+                    {  10,   0,  10,   0,   0,   0,   0,   0,  10,  10,  10,   0,   0,  10,   0,   0,   0,   0,   0,   0,   0,   0,   0,   0,   5,   5,   0,   0,   0,  10},
+                    {  10,   0,   0,   0,   0,   5,   5,   5,  10,   0,   0,   0,   0,   0,   0,   0,   0,  10,   0,   0,   5,   5,   5,   0,   0,   0,   0,   0,   0,  10},
+                    {  10,   0,   0,   0,   0,   0,   0,   0,  10,   0,   0,   0,  10,  10,   0,   0,   0,  10,   0,   0,   0,   0,   0,   0,   0,   0,   0,   0,   0,  10},
+                    {  10,  10,  10,  10,   0,   0,   0,   0,   0,   0,   0,   0,   0,   0,   0,   0,  10,  10,  10,   0,   0,   0,   0,  10,  10,   0,   0,   0,   0,  10},
+                    {  10,   0,   0,  10,   0,   0,   0,   0,   0,   0,   0,   0,   5,   0,   0,   0,   0,   0,   0,   0,   0,   0,   0,   0,  10,  10,   0,   0,   0,  10},
+                    {  10,   0,   0,  10,   0,   0,   0,   0,   0,   0,   0,   0,   5,   0,   0,   0,   0,   0,   0,   0,   0,  10,   0,   0,   0,  10,  10,  10,   0,  10},
+                    {  10,   0,   0,   0,   0,   0,   0,   5,   0,   0,   0,   0,   5,   0,   0,   0,  10,  10,  10,   0,   0,  10,   0,   0,   0,   0,   0,  10,  10,  10},
+                    {  10,   0,   0,   0,   0,   0,   5,   0,   0,   0,   0,   0,   5,   0,   0,   0,   0,   0,   0,   0,   0,  10,   0,   0,   0,   0,   0,   0,   0,  10},
+                    {  10,  10,  10,   0,   0,   0,  10,  10,  10,  10,  10,  10,  10,  10,  10,  10,  10,  10,  10,  10,  10,  10,  10,  10,   0,   0,   0,   0,   0,  10},
+                    {  10,   0,   0,   0,   0,   0,  10,   0,   0,   0,   0,   0,   0,   0,   0,   0,   0,   0,   0,   0,   0,   0,   0,  10,   0,   0,   0,   0,   0,  10},
+                    {  10,   0,   0,  10,  10,  10,  10,   0,   0,   0,   0,   0,   0,   0,   0,   0,   0,   0,   0,   0,   0,   0,   0,  10,   0,   0,   5,   5,   5,  10},
+                    {  10,   0,   0,   0,   0,   0,  10,   0,   0,   0,   0,   0,   0,   0,   0,   0,   0,   0,   0,   0,   0,   0,   0,  10,   0,   0,   0,   0,   0,  10},
+                    {  10,  10,  10,  10,  10,  10,  10,   0,   0,   0,   0,   0,   0,   0,   0,   0,   0,   0,   0,   0,   0,   0,   0,  10,  10,  10,  10,  10,  10,  10},
+                    {  10,  10,  10,  10,  10,  10,  10,   0,   0,   0,   0,   0,   0,   0,   0,   0,   0,   0,   0,   0,   0,   0,   0,  10,  10,  10,  10,  10,  10,  10}
             }
     };
 

diff --git a/src/main/java/com/example/biubiu/sprite/State.java b/src/main/java/com/example/biubiu/sprite/State.java
@@ -13,7 +13,7 @@ public class State extends Sprite{
     public int WeaID;
     public State() {
 //        super(new Image(State.class.getResource("/com/example/biubiu/image/购物车.png").toExternalForm()),380, 600 ,200 ,40);
-        super(new Image(State.class.getResource("/com/example/biubiu/image/state.png").toExternalForm()),262, 872 ,500 ,152);
+        super(new Image(State.class.getResource("/com/example/biubiu/image/state.png").toExternalForm()),224, 480 ,500 ,152);
     }
 
     private String[] chaURL = {"","/com/example/biubiu/image/moverole1-0.gif","/com/example/biubiu/image/moverole1-0.gif",
@@ -32,21 +32,21 @@ public class State extends Sprite{
         super.paint(graphicsContext);
         for(int i = 1; i <= hp;++i){
             Image image1 = new Image(Player.class.getResource("/com/example/biubiu/image/hp.png").toExternalForm());
-            graphicsContext.drawImage(image1,x + 50 + 32 * (i-1),y + 24,32,32);
+            graphicsContext.drawImage(image1,x + 80 + 32 * (i-1),y + 24,32,32);
         }
         Image imageB = new Image(State.class.getResource(chaURL[ChaID]).toExternalForm());
         Image imageC = new Image(State.class.getResource(weaURL[WeaID]).toExternalForm());
 
         double tmpbulletspeed = bulletspeed[WeaID];
 
-        graphicsContext.drawImage(imageB,x + 8,y + 8,64,64);
-        graphicsContext.drawImage(imageC,x + 8,y + 80,64,64);
+        graphicsContext.drawImage(imageB,x + 38,y + 8,64,64);
+        graphicsContext.drawImage(imageC,x + 38,y + 80,64,64);
 
         graphicsContext.setFill(Color.WHITE);
         graphicsContext.setFont(javafx.scene.text.Font.font("Arial", 16));
-        graphicsContext.fillText("速度: " + speed, x + 100, y + 96);
-        graphicsContext.fillText("弹药: " + numOfbullet, x + 200, y + 96);
-        graphicsContext.fillText("子弹速度: " + tmpbulletspeed, x + 300, y + 96);
+        graphicsContext.fillText("速度: " + speed, x + 130, y + 96);
+        graphicsContext.fillText("弹药: " + numOfbullet, x + 230, y + 96);
+        graphicsContext.fillText("子弹速度: " + tmpbulletspeed, x + 330, y + 96);
     }
 
 }

diff --git a/src/main/java/com/example/biubiu/scene/ComputerGameScene.java b/src/main/java/com/example/biubiu/scene/ComputerGameScene.java
@@ -22,7 +22,7 @@ import java.util.concurrent.CopyOnWriteArrayList;
 public class ComputerGameScene {
 
     public int enemynum;
-    private Canvas canvas = new Canvas(1024,1024);
+    private Canvas canvas = new Canvas(960,640);
     private GraphicsContext graphicsContext = canvas.getGraphicsContext2D();
 
     private ComputerGameScene.KeyProcess keyProcess = new ComputerGameScene.KeyProcess();
@@ -38,7 +38,7 @@ public class ComputerGameScene {
     public Player selfPlayer;
 
     private int gamemode;
-    String []mpURL = {"/com/example/biubiu/image/test01.png","/com/example/biubiu/image/test01.png","/com/example/biubiu/image/test01.png"};
+    String []mpURL = {"","/com/example/biubiu/image/desert.png","/com/example/biubiu/image/ocean.png","/com/example/biubiu/image/forest.png"};
 
     public List<Bullet> bullets = new CopyOnWriteArrayList<>();
 
@@ -50,9 +50,9 @@ public class ComputerGameScene {
 
     public int[] enemynums = {4,6,8};
 
-    private int [][]positionPlayer = {{32,32},{950,32},{32,950},{950,950}};
+    private int [][]positionPlayer = {{32,32},{850,32},{32,850},{850,600}};
 
-    private int [][]positionEnemy = {{32,500},{950,32},{32,950},{950,950},{32,450},{950,64},{32,780},{640,950}};
+    private int [][]positionEnemy = {{32,500},{850,32},{32,600},{850,500},{32,450},{850,64},{32,430},{640,200}};
 
     public int ChaID[] = new int[9];
 

diff --git a/src/main/java/com/example/biubiu/scene/GameScene.java b/src/main/java/com/example/biubiu/scene/GameScene.java
@@ -35,7 +35,7 @@ public class GameScene {
 
     public int enemynum;
 
-    private int [][]positionPlayer = {{32,32},{950,32},{32,950},{950,950}};
+    private int [][]positionPlayer = {{32,32},{850,32},{32,850},{850,600}};
 
     public String selfIP;//自己的IP
 
@@ -48,7 +48,7 @@ public class GameScene {
     public int Mapchoose;//本局游戏选择地图
 
     public double mouseX,mouseY;
-    private Canvas canvas = new Canvas(1024,1024);
+    private Canvas canvas = new Canvas(960,640);
     private GraphicsContext graphicsContext = canvas.getGraphicsContext2D();
 
     private KeyProcess keyProcess = new KeyProcess();
@@ -65,7 +65,7 @@ public class GameScene {
     private State state = new State();
     private Player selfPlayer;
 
-    String []mpURL = {"/com/example/biubiu/image/test01.png","/com/example/biubiu/image/test01.png","/com/example/biubiu/image/test01.png"};
+    String []mpURL = {"","/com/example/biubiu/image/desert.png","/com/example/biubiu/image/ocean.png","/com/example/biubiu/image/forest.png"};
 
     public List<Bullet> bullets = new CopyOnWriteArrayList<>();
 

diff --git a/src/main/java/com/example/biubiu/sprite/Background.java b/src/main/java/com/example/biubiu/sprite/Background.java
@@ -6,7 +6,7 @@ import javafx.scene.image.Image;
 public class Background extends Sprite{
 
     public Background() {
-        super(new Image(Background.class.getResource("/com/example/biubiu/image/test01.png").toExternalForm()),0, 0 ,1024 ,1024);
+        super(new Image(Background.class.getResource("/com/example/biubiu/image/desert.png").toExternalForm()),0, 0 ,960 ,640);
     }
 
 }

diff --git a/src/main/java/com/example/biubiu/controller/WaitingController.java b/src/main/java/com/example/biubiu/controller/WaitingController.java
@@ -236,7 +236,7 @@ WaitingController implements Initializable {
         refreshRoom();
 
         try {
-            listener = new Listener("localhost", 6666);
+            listener = new Listener("192.168.43.144", 6666);
             new Thread(listener).start();
         } catch (IOException e) {
             e.printStackTrace();
